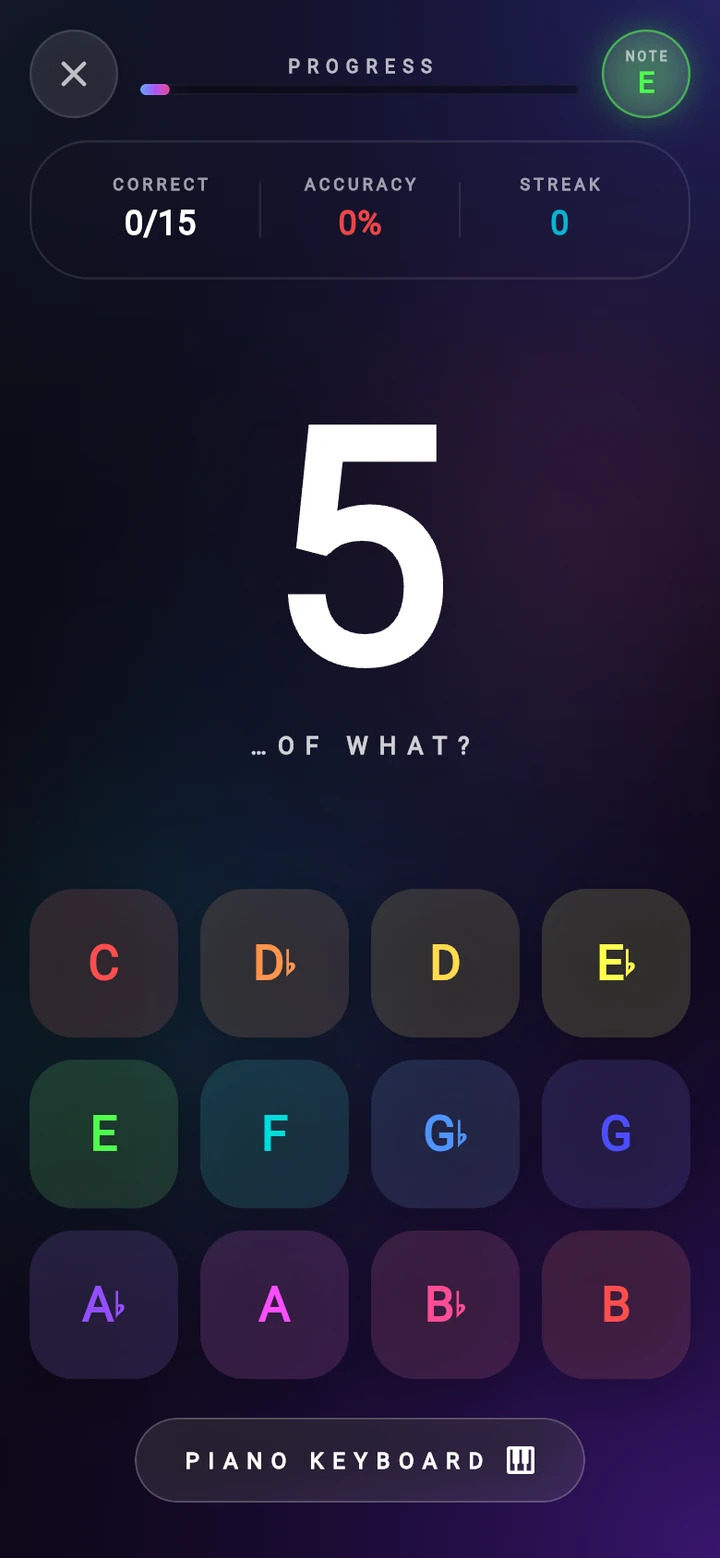
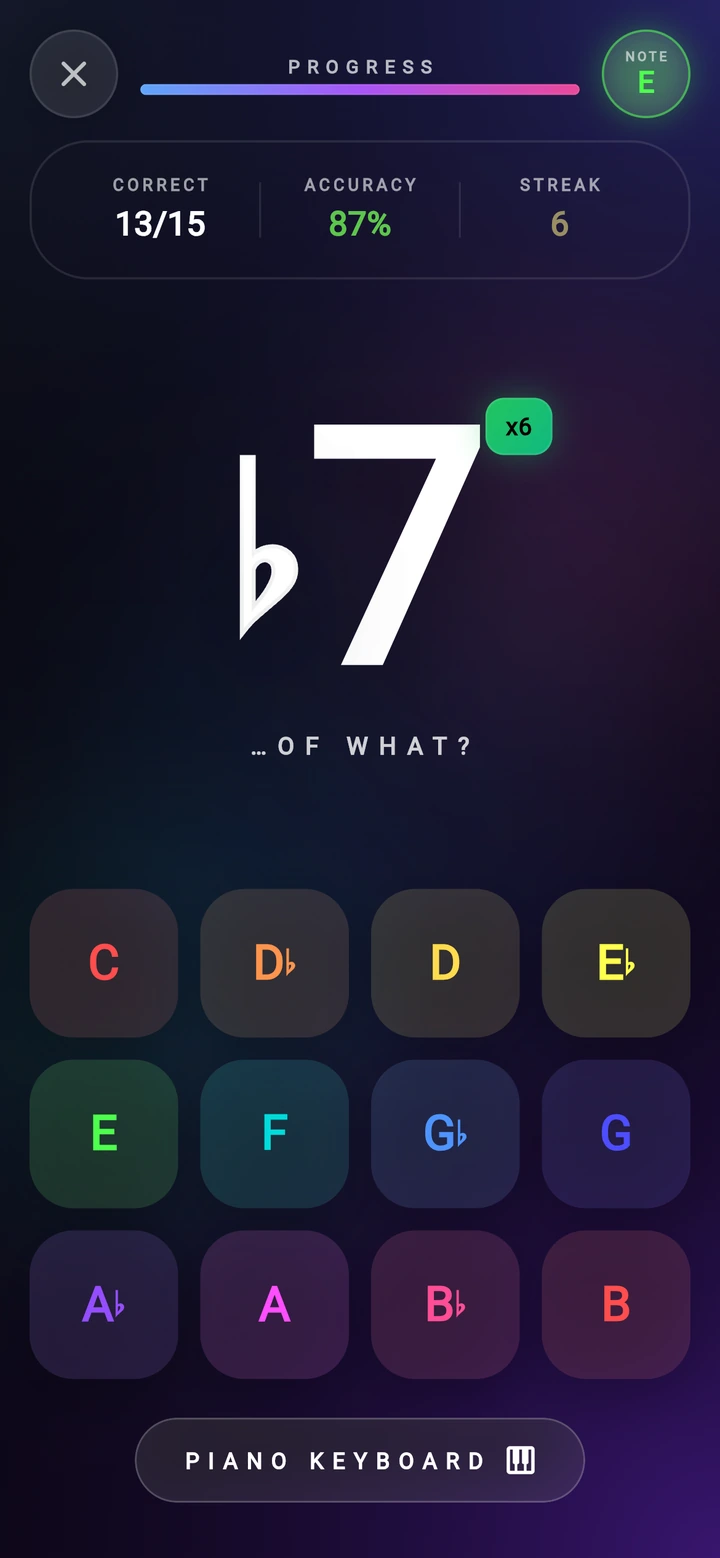
Site: regenerate every mode screenshot from one pipeline, fix mismatched cards
All six mode mockups now come from the same capture pipeline at 3x DPI with a
live mid-session state (24/30, 92%, streak 8) instead of dead zeroes, so the
cards finally render consistently with each other.

Also fixes two cards that showed the wrong screen entirely:
- Chromatic Mode showed the home screen  → now the chromatic game (♭5 in E♭).
- Reverse Mode showed the statistics page → now the Note-to-Number game.

Claude-Session: https://claude.ai/code/session_01WxjDdAHP8mv3wAafRFViM9

diff --git a/src/components/WhyImprovyPage.tsx b/src/components/WhyImprovyPage.tsx
@@ -3,7 +3,8 @@ import { motion } from "motion/react";
 import { AppLogo } from "./AppLogo";
 import methodDiatonicImg from "../assets/images/method_diatonic_grid.webp";
 import methodHomeImg from "../assets/images/method_home_progress.webp";
-import methodStatsImg from "../assets/images/method_stats.webp";
+import methodChromaticImg from "../assets/images/method_chromatic.webp";
+import methodN2NImg from "../assets/images/method_n2n.webp";
 import methodPianoImg from "../assets/images/method_piano_answer.webp";
 import methodOfWhatImg from "../assets/images/method_ofwhat.webp";
 import methodPocketImg from "../assets/images/method_pocket.webp";
@@ -454,8 +455,8 @@ export function WhyImprovyPage({ onBack }: WhyImprovyPageProps) {
                   score="+920 XP"
                   streak="12 Days"
                   timer="0:08"
-                  screenshot={methodHomeImg}
-                  screenshotAlt="Improvy home screen with total progress and all-keys mastery"
+                  screenshot={methodChromaticImg}
+                  screenshotAlt="Improvy chromatic training in the key of E flat — the flat 5 degree with the enharmonic answer grid"
                 />
               </div>
             </div>
@@ -491,8 +492,8 @@ export function WhyImprovyPage({ onBack }: WhyImprovyPageProps) {
                   score="+1,450 XP"
                   streak="21 Days"
                   timer="0:03"
-                  screenshot={methodStatsImg}
-                  screenshotAlt="Improvy statistics screen with overall proficiency and response time"
+                  screenshot={methodN2NImg}
+                  screenshotAlt="Improvy Note-to-Number training — the note E flat shown for its scale degree"
                 />
               </div>
             </div>
